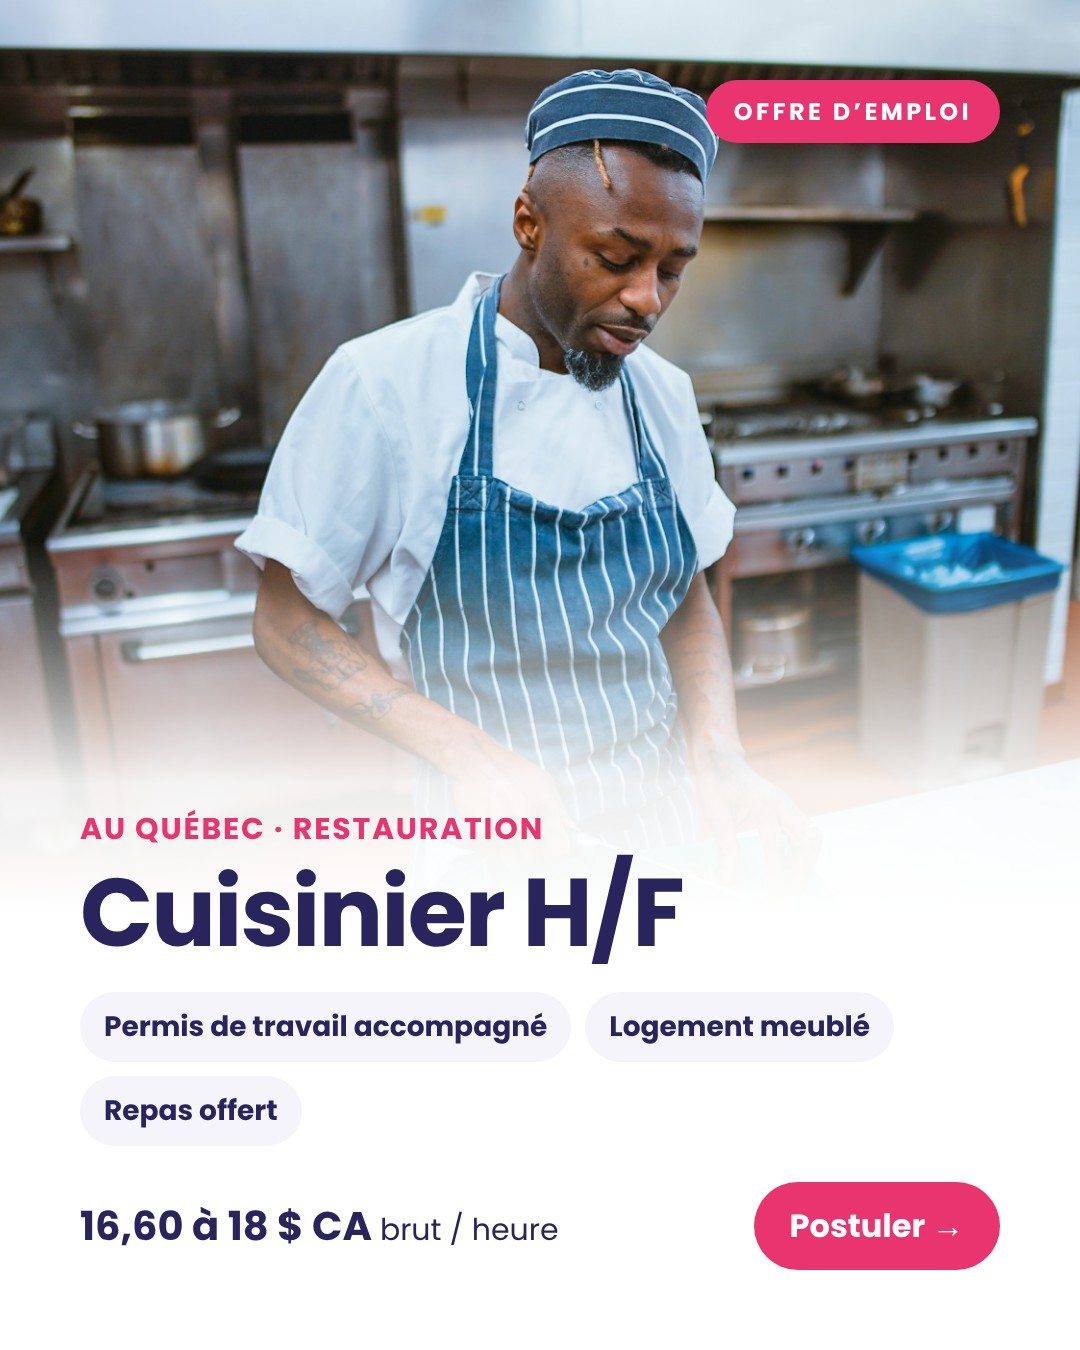
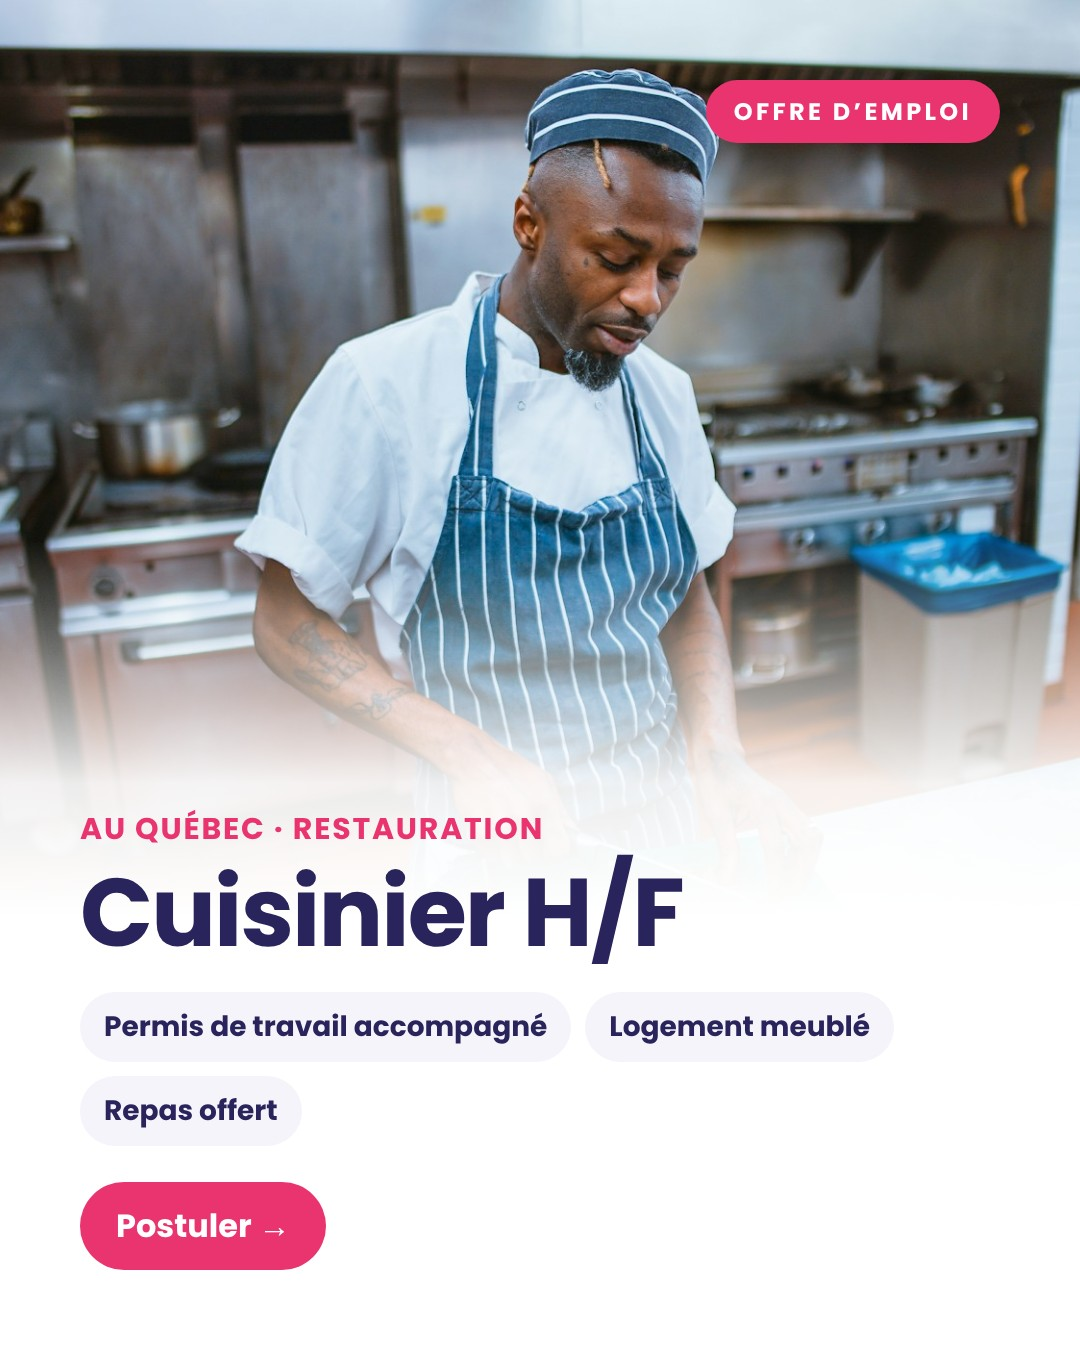
Visuel offre cuisinier sans salaire
Claude-Session: https://claude.ai/code/session_01NBGakcBRwoq7RKRswmKrSM

Changed region(s): [[0.0611, 0.8711, 0.5194, 0.9644], [0.7028, 0.8711, 0.9472, 0.9644]]

diff --git a/tools/visuels/offre.html b/tools/visuels/offre.html
@@ -16,4 +16,4 @@ h1{color:#29245c;font-size:96px;line-height:1.02;margin-top:12px}
 <div class="in"><span class="tag">Offre d’emploi</span>
 <div class="bottom"><div class="loc">Au Québec · Restauration</div><h1>Cuisinier H/F</h1>
 <div class="chips"><span class="chip">Permis de travail accompagné</span><span class="chip">Logement meublé</span><span class="chip">Repas offert</span></div>
-<div class="row"><div class="sal"><b>16,60 à 18 $ CA</b> brut / heure</div><span class="cta">Postuler →</span></div></div></div></div></body></html>
+<div class="row"><span class="cta">Postuler →</span></div></div></div></div></body></html>
